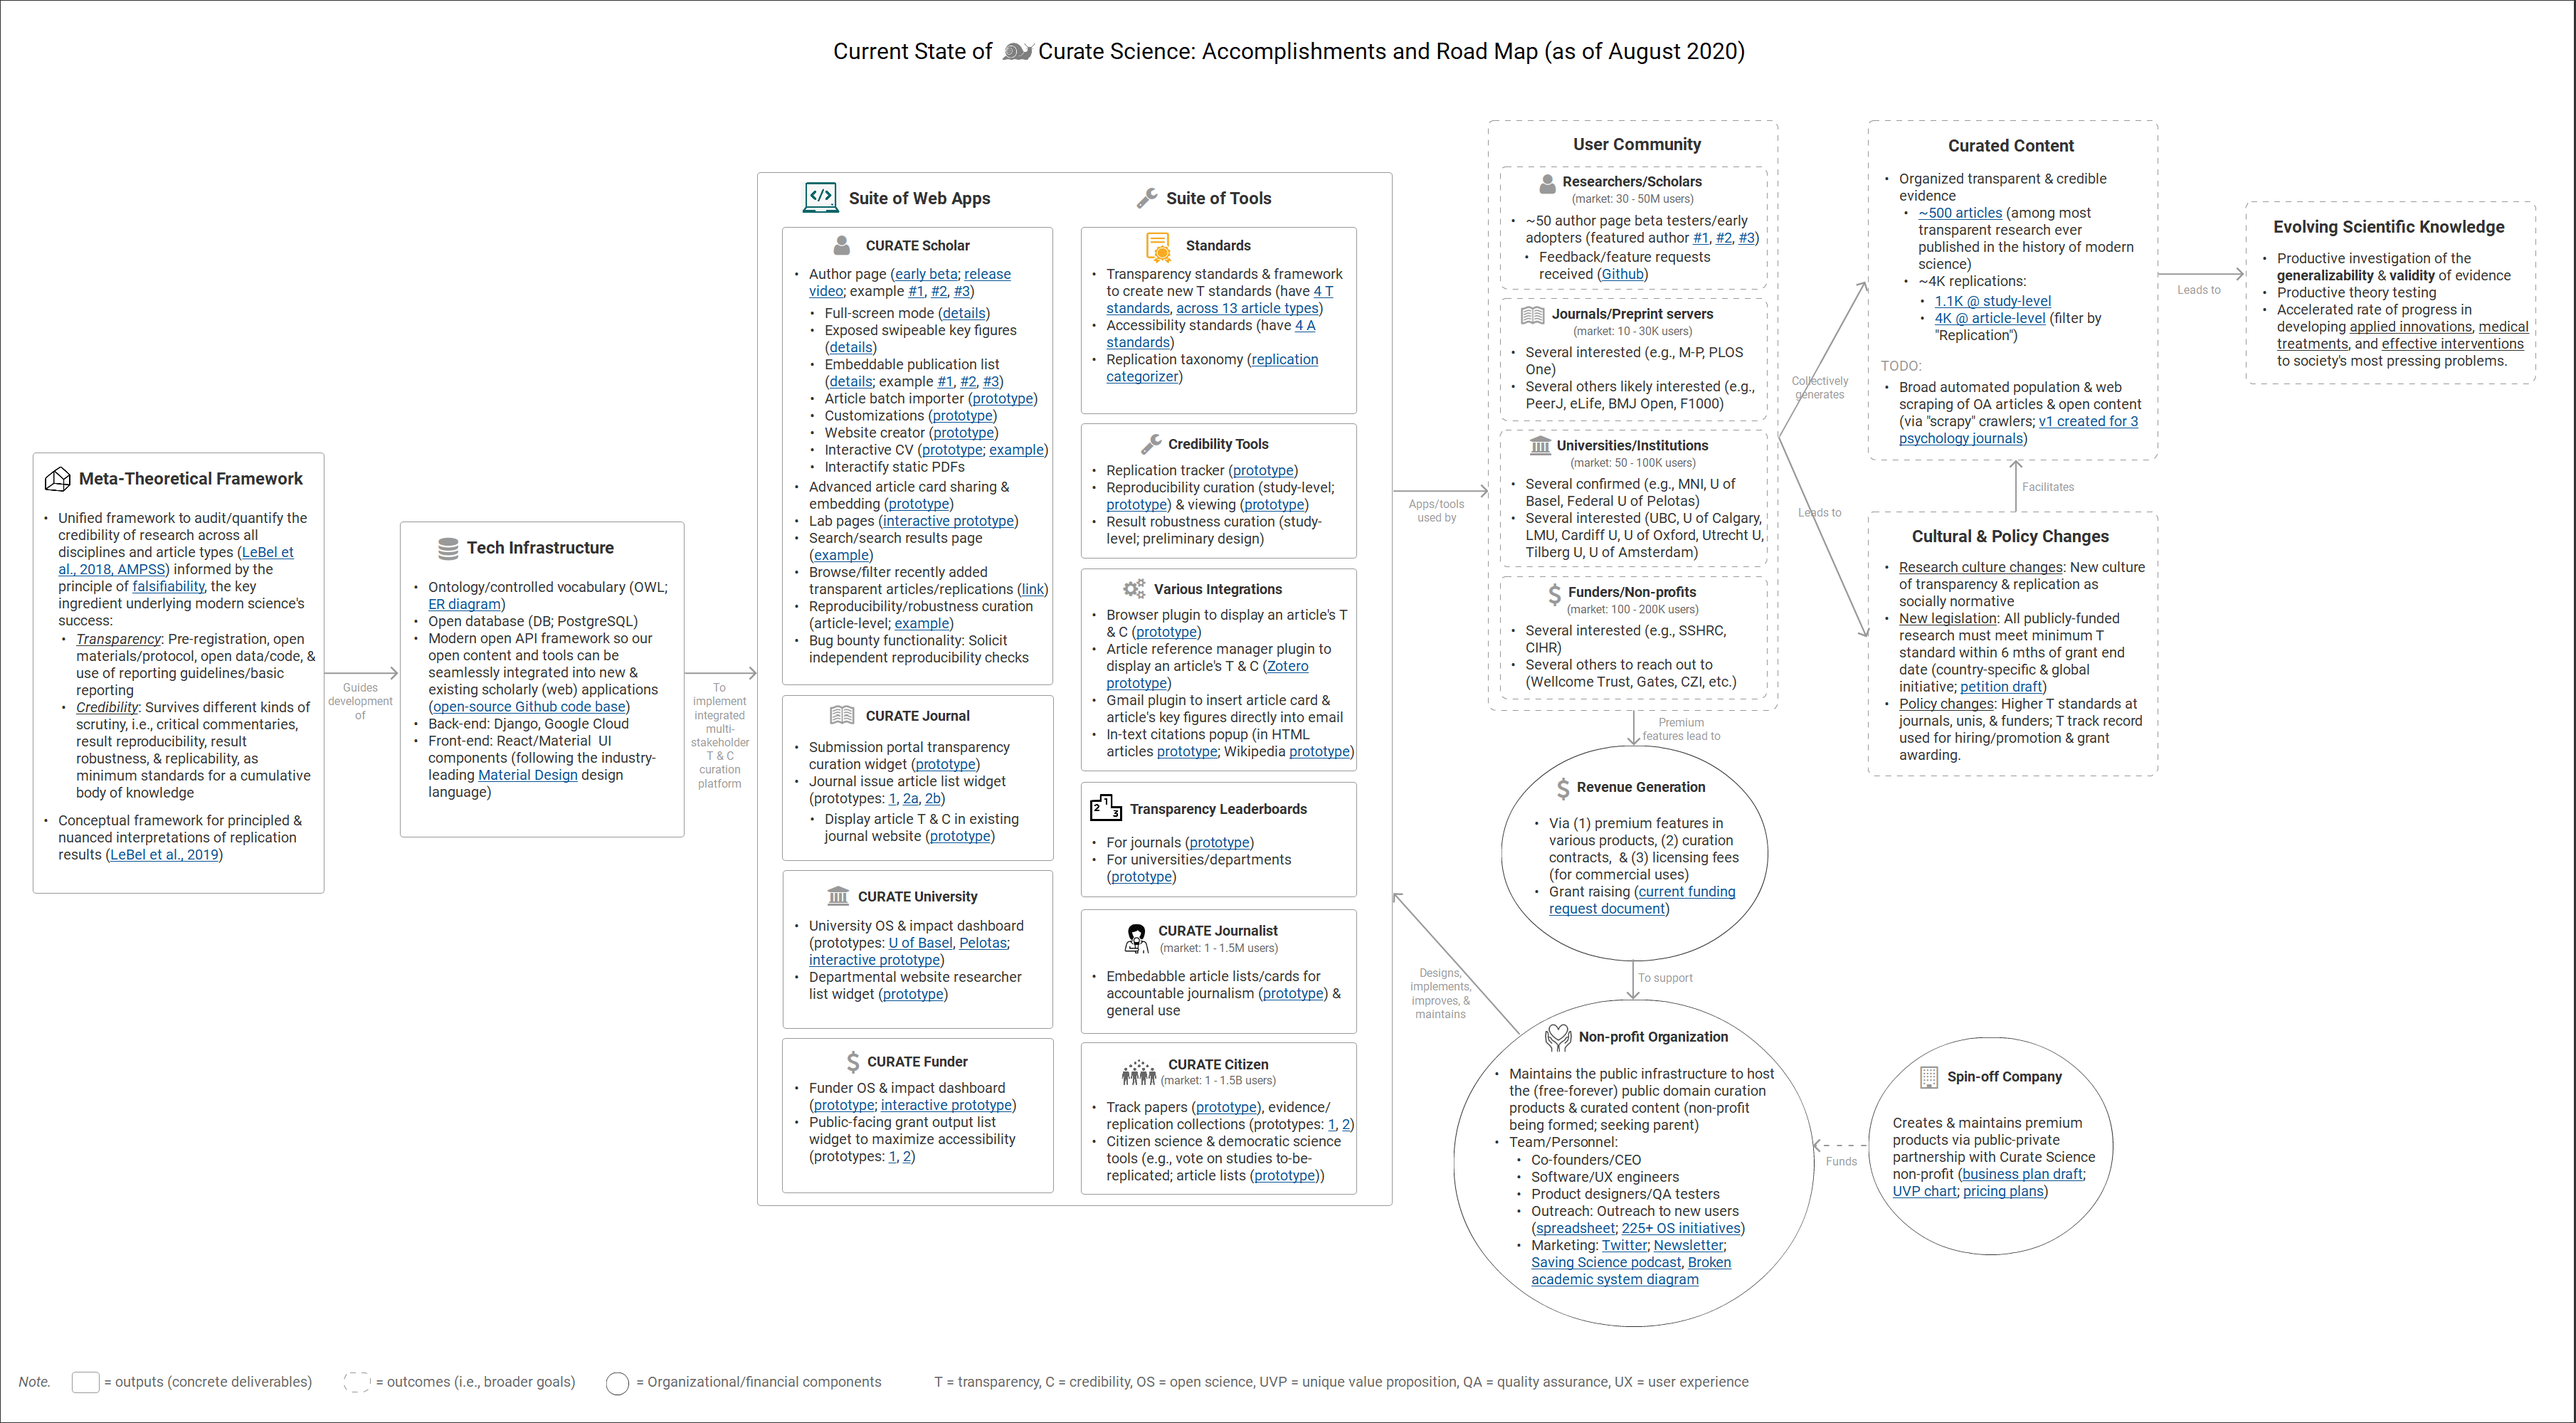
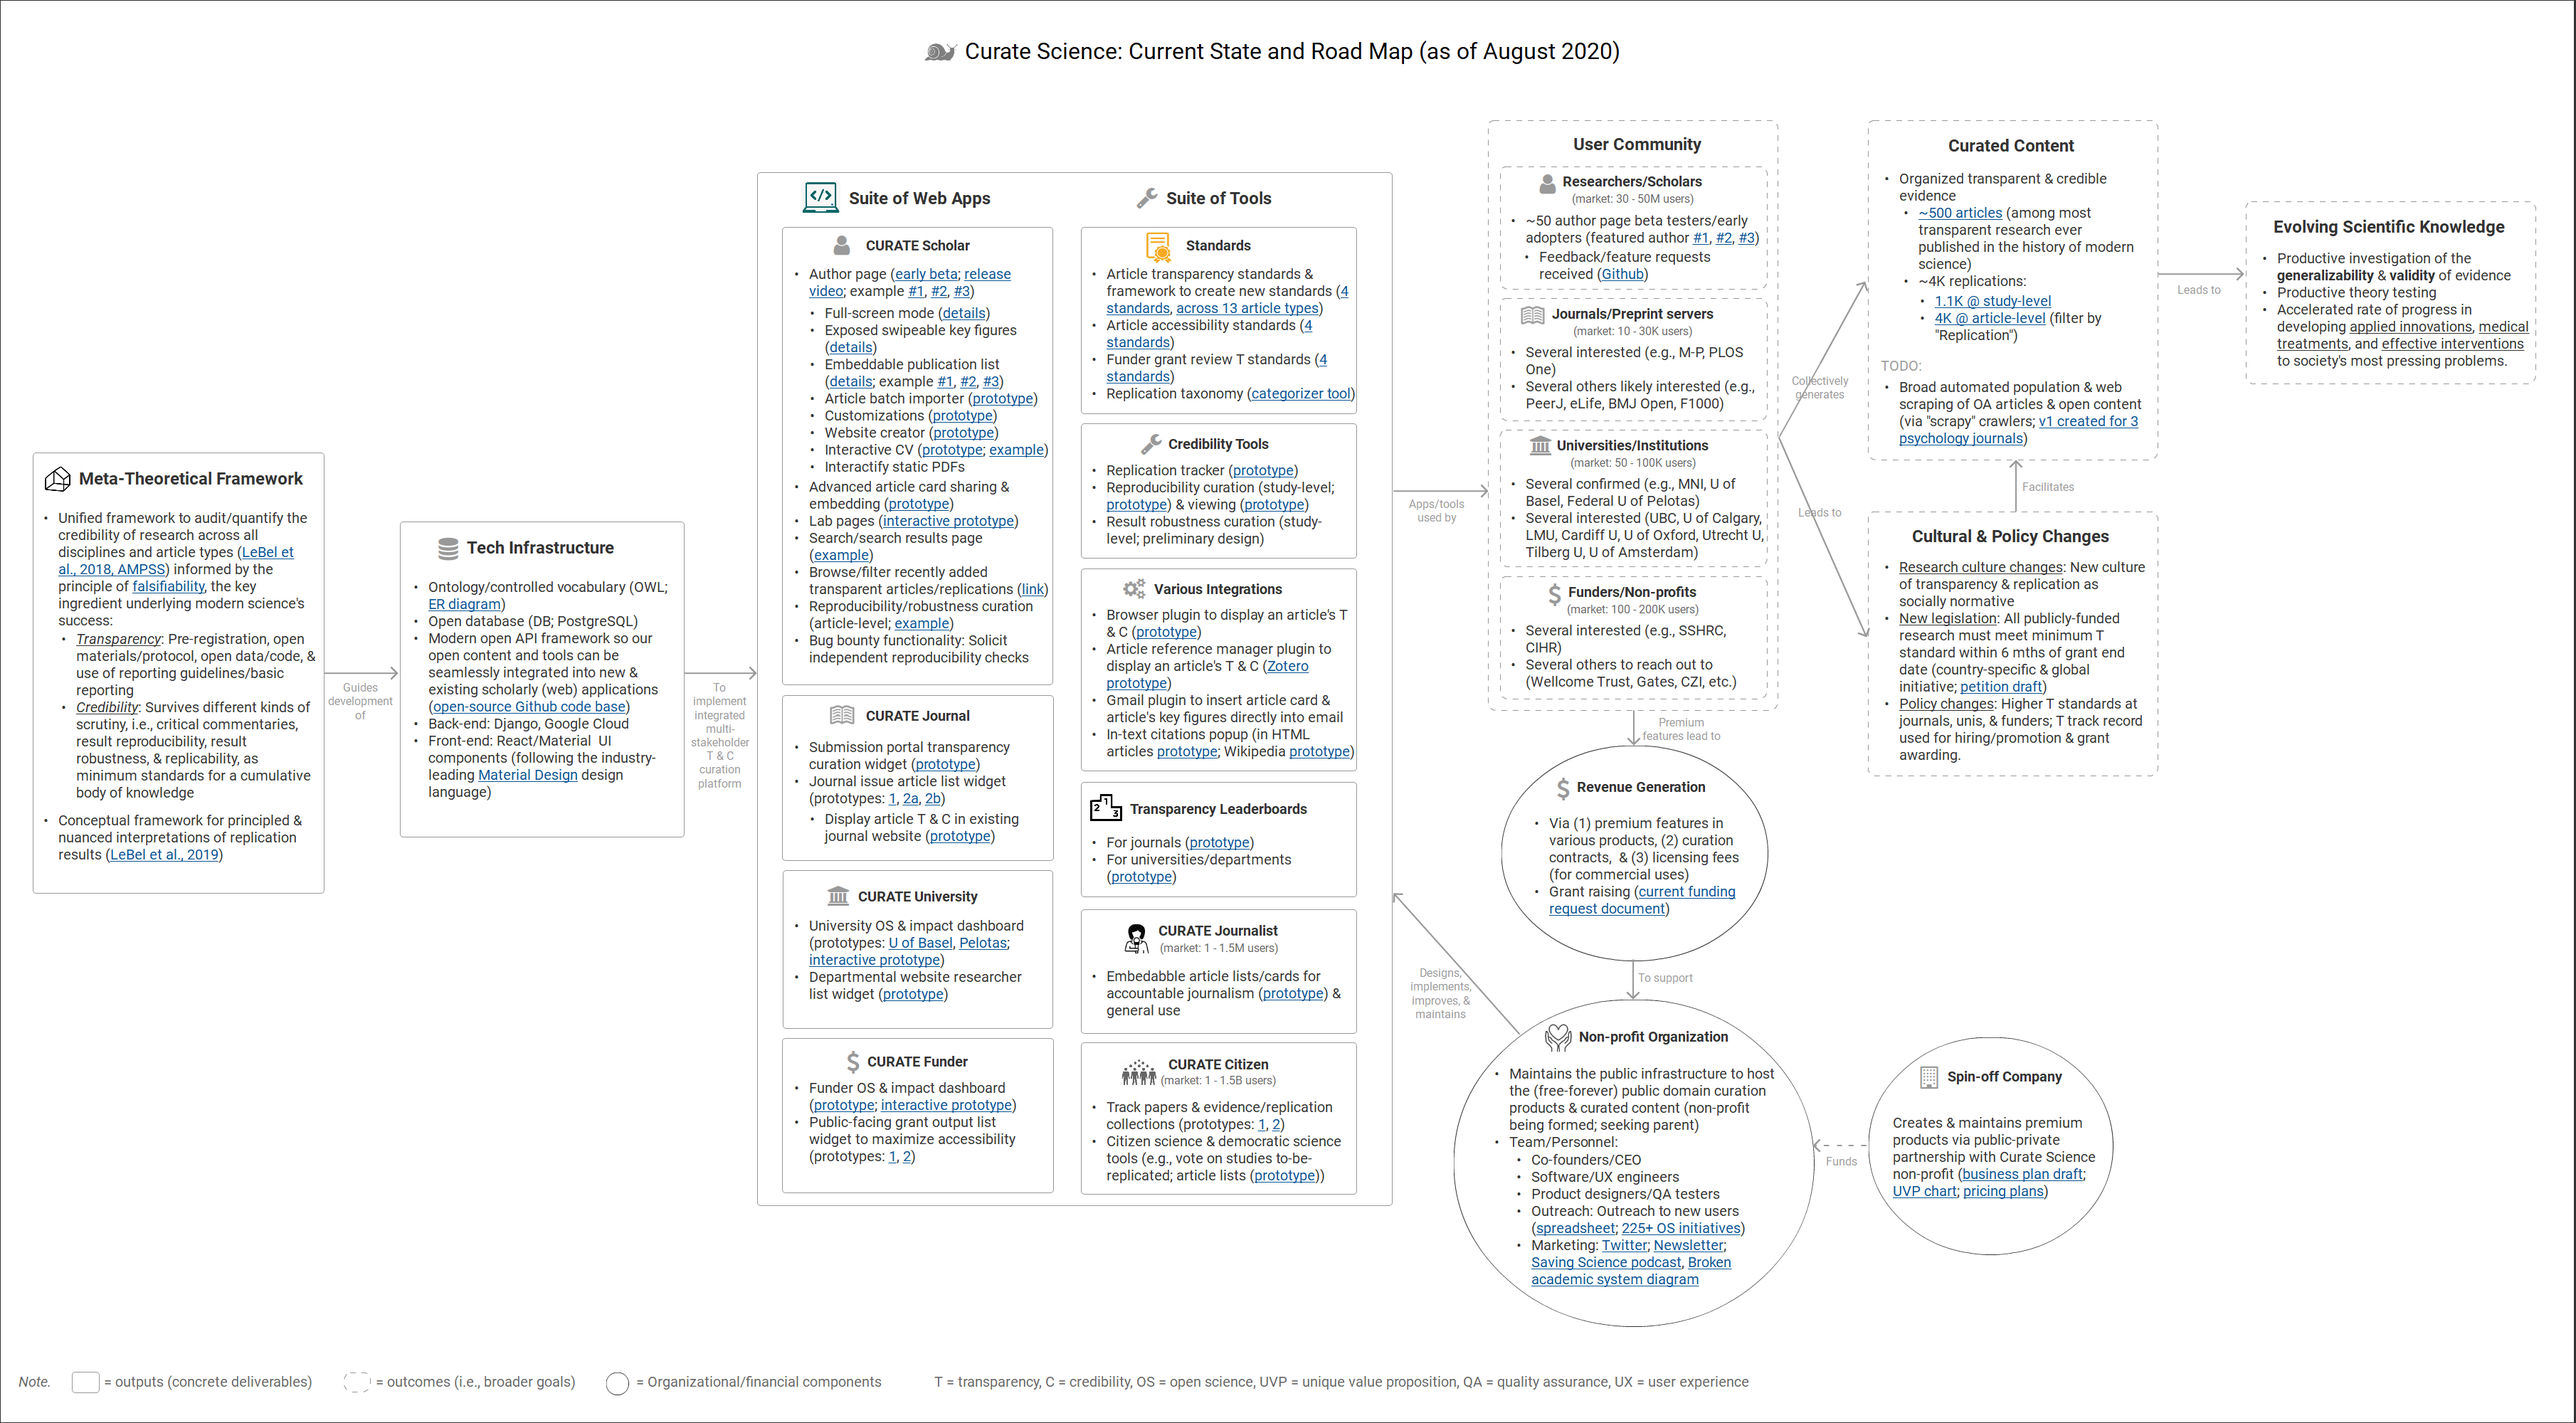
added Funder grant review T standards
& other minor tweaks

Changed region(s): [[0.3434, 0.031, 0.6867, 0.062], [0.437, 0.186, 0.5307, 0.279], [0.437, 0.775, 0.5307, 0.806]]

diff --git a/public/cs/cs-state-of-and-roadmap.html b/public/cs/cs-state-of-and-roadmap.html
@@ -56,9 +56,9 @@
   <area shape="rect" coords="604,816,654,831" href="https://user-images.githubusercontent.com/4512335/84412250-f7fe1480-abdc-11ea-8f7f-cdd484fcfb95.png" target="_blank">
   <area shape="rect" coords="690,616,742,629" href="https://user-images.githubusercontent.com/4512335/84421270-516c4080-abe9-11ea-923a-7bff5787de6e.png" target="_blank">
   <area shape="rect" coords="877,224,987,237" href="https://user-images.githubusercontent.com/4512335/78266362-b01f8a80-74d3-11ea-9a0c-fc95eaa2ac37.png" target="_blank">
-  <area shape="poly" coords="852,235,873,234,872,222,994,221,996,209,978,210,978,221,823,223,823,228,824,235" href="https://curatescience.org/sitestatic/infographics/1.0-T-standards-A-HD.png" target="_blank">
-  <area shape="poly" coords="824,261,875,261,876,250,982,249,982,237,961,236,959,248,824,248,826,256" href="https://user-images.githubusercontent.com/4512335/78373372-8714fd80-7598-11ea-88fb-6b41eeac4a88.png" target="_blank">
-  <area shape="poly" coords="823,285,881,285,881,275,982,273,984,261,930,262,929,273,822,274" href="https://curatescience.org/sitestatic/infographics/replication-taxonomy-v0.4.0.png" target="_blank">
+  <area shape="poly" coords="852,235,873,234,872,222,1012,222,1012,210,995,210,996,222,823,223,823,228,824,235" href="https://curatescience.org/sitestatic/infographics/1.0-T-standards-A-HD.png" target="_blank">
+  <area shape="poly" coords="824,261,875,261,876,250,982,249,982,237,968,236,968,248,824,248,826,256" href="https://user-images.githubusercontent.com/4512335/78373372-8714fd80-7598-11ea-88fb-6b41eeac4a88.png" target="_blank">
+  <area shape="poly" coords="823,285,878,285,877,275,995,274,995,263,979,262,979,275,822,274" href="https://user-images.githubusercontent.com/4512335/84948897-5da93f80-b0ba-11ea-9bfc-3ca6c2f2f1ec.png" target="_blank">
   <area shape="rect" coords="917,344,968,357" href="https://curatescience.org/sitestatic/infographics/7.0-COLLECTION-page-HIW-HD.png" target="_blank">
   <area shape="rect" coords="824,369,873,384" href="https://user-images.githubusercontent.com/4512335/62073935-b60bf000-b20f-11e9-9f99-d7c8e92bed99.png" target="_blank">
   <area shape="rect" coords="925,370,977,383" href="https://user-images.githubusercontent.com/4512335/62073938-b906e080-b20f-11e9-8ece-264e65cddb50.png" target="_blank">
@@ -69,9 +69,8 @@
   <area shape="rect" coords="884,622,936,634" href="https://curatescience.org/sitestatic/infographics/11.0-T-leaderboards-JOURNALS-HD.png" target="_blank">
   <area shape="rect" coords="822,646,878,662" href="https://curatescience.org/sitestatic/infographics/13.0-T-leaderboard-UNIS-HD.png" target="_blank">
   <area shape="rect" coords="939,734,989,750" href="https://user-images.githubusercontent.com/4512335/69917128-b1ab4a00-1430-11ea-9ecd-eb01e3b5da07.png" target="_blank">
-  <area shape="rect" coords="889,817,941,832" href="https://user-images.githubusercontent.com/4512335/84422834-998c6280-abeb-11ea-936b-dfcf80b969cc.png" target="_blank">
-  <area shape="rect" coords="987,831,998,843" href="https://curatescience.org/sitestatic/infographics/7.0-COLLECTION-page-HIW-HD.png" target="_blank">
-  <area shape="rect" coords="999,830,1012,843" href="https://user-images.githubusercontent.com/4512335/84393537-b44ddf80-abc9-11ea-8de8-ad16fb7d4953.png" target="_blank">
+  <area shape="rect" coords="935,832,946,844" href="https://curatescience.org/sitestatic/infographics/7.0-COLLECTION-page-HIW-HD.png" target="_blank">
+  <area shape="rect" coords="947,832,960,845" href="https://user-images.githubusercontent.com/4512335/84393537-b44ddf80-abc9-11ea-8de8-ad16fb7d4953.png" target="_blank">
   <area shape="rect" coords="933,870,984,882" href="https://user-images.githubusercontent.com/4512335/57523318-f3559580-7324-11e9-9608-2fdbe7de5fc8.png" target="_blank">
   <area shape="rect" coords="1193,197,1229,212" href="https://github.com/ScienceCommons/curate_science/issues/67" target="_blank">
   <area shape="poly" coords="1219,660,1220,672,1153,672,1153,682,1243,682,1243,671,1294,670,1294,658" href="https://docs.google.com/document/d/1zWPWeW8gh01BAc9ckTs4lebKDmcrLdHZ4ZCuzpPii1I/edit#" target="_blank">
@@ -84,6 +83,7 @@
   <area shape="rect" coords="1441,231,1527,243" href="https://curatescience.org/app/recent" target="_blank">
   <area shape="rect" coords="1441,218,1531,230" href="https://curatescience.org/app/replications" target="_blank">
   <area shape="poly" coords="1519,310,1597,307,1597,319,1512,320,1512,333,1417,334,1416,323,1507,320" href="https://github.com/dominklenda/Web-Scraping-Curate-Science-Platform-" target="_blank">
+  <area shape="rect" coords="930,288,1009,301" href="https://curatescience.org/sitestatic/infographics/replication-taxonomy-v0.4.0.png" target="_blank">
 </map>
 </body>
 </html>
